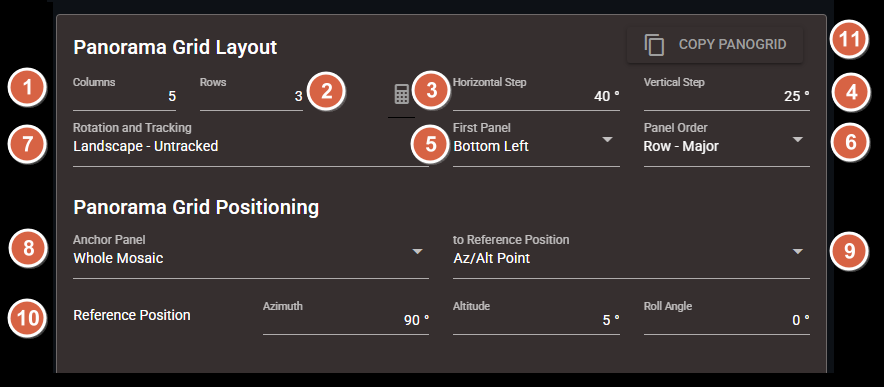
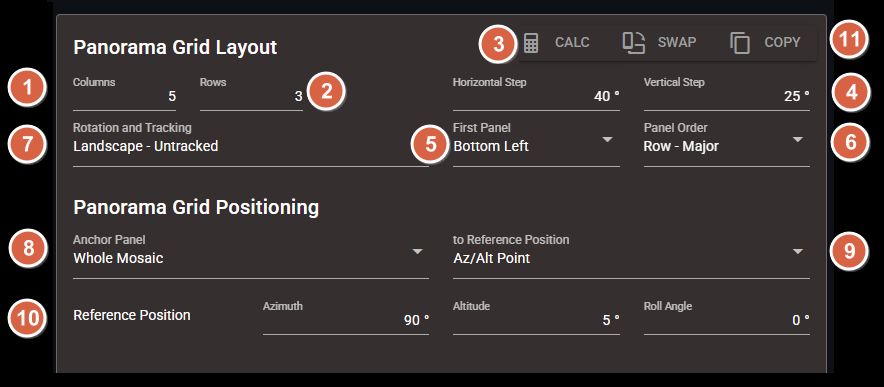
fix(docs): update pano docs and note on restricted browser functions requiring https

Changed region(s): [[0.7025, 0.062, 0.9163, 0.155], [0.5192, 0.062, 0.6719, 0.186], [0.4276, 0.186, 0.5192, 0.2791]]

diff --git a/docs/pilot.md b/docs/pilot.md
@@ -47,7 +47,7 @@ The main menu of the **Alpaca Pilot** application provides centralized access to
 - **④ Connect:**  Initiates or terminates the connection to the Alpaca Driver and Polaris mount. This button reflects current connection status.
 
 - **⑤ Settings:** Opens the configuration panel where you can set observing site latitude/longitude, define the park position, adjust preferences, and enable standard and advanced features.
-
+> Note: Location services are restricted in browsers on mobile phones and the Locate function in Settings will only work over HTTPS. Refer to the instructions below to [enable HTTPS in Alpaca Pilot](#enable-https-in-alpaca-pilot).
 - **⑥ Search Entry:** A text input field for searching catalog entries and targets. Supports shorthand formats and intelligent parsing for quick access to celestial objects.
 
 - **⑦ Search Toggle:** Toggles the visibility of the search entry field. On narrow screens, it also expands the search input area for easier access. When a search term is present, this button acts as a quick-clear control to reset the entry.
@@ -1052,7 +1052,7 @@ Changes made in Alpaca Pilot immediately update the active panorama grid in the 
    * **3 – Sky · Milky Way**: Sidereal tracking is enabled. Panel positions are calculated in Galactic coordinates, with hstep adjusting Galactic Longitude and vstep adjusting Galactic Latitude. The Galactic Position Angle remains constant for all panels and is derived from the anchor's reference roll angle. *Use for mosaics aligned with the milky way spine.*
       * **Galactic longitude (0–360°)** defines the position around the Milky Way's disk. At longitude 0° and latitude 0°, the camera is pointed toward the Galactic Center, near Sagittarius A*.
       * **Galactic Latitude (–90° to +90°)** defines the angular distance above or below the Milky Way's disk. At latitude 0°, the camera is centered on the Galactic plane.
-      * **Galactic Position Angle (-180° to +180°)** defines the camera's rotation about its viewing axis. At 0°, the top of the frame points toward the North Galactic Pole. At ±90°, the top of the frame is aligned with the Milky Way plane. Beware of Benro Polaris roll angle limits.
+      * **Galactic Position Angle (-180° to +180°)** defines the camera's rotation about its viewing axis. At 0°, the top of the frame points toward the North Galactic Pole. At ±90°, the top of the frame is aligned with the Milky Way plane. Beware of Benro Polaris roll angle
 
 
 - **⑧ Anchor Panel `"anchor":`** Specifies which part of the panorama is placed at the reference position. The **Anchor Panel** and **Reference Position** work together to shift the entire panorama grid to your desired orientation:
@@ -1074,8 +1074,11 @@ Changes made in Alpaca Pilot immediately update the active panorama grid in the 
    * **Reference Axis 2 `"r2":`**: Altitude or Declination (decimal degrees)
    * **Reference Axis 3 `"r3":`**: Roll or Position Angle (decimal degrees)
 
+- **&#9322; Swap:** Changes the spacing between panels for either a Landscape or Portrait orientation, by  swaping the `"hstep"` and `"vstep"` values. Landscape orientation will have a larger `"hstep"`, while Portrait orientation will have a larger `"vstep"`. This button only changes the spacing of the panels, you will need to use a lens collar to rotate your camera's sensor to match the orientation. 
 
-- **&#9322; Copy PanoGrid:** Copies the current Panorama Grid settings to the clipboard in JSON format. After defining the Panorama Grid Layout, use this button to paste the settings directly into the `Polaris:PanoGrid` **Device Action Parameters** field within the NINA Advanced Sequencer. See below for an example.
+- **&#9322; Copy:** Copies the current Panorama Grid settings to the clipboard in JSON format. After defining the Panorama Grid Layout, use this button to paste the settings directly into the `Polaris:PanoGrid` **Device Action Parameters** field within the NINA Advanced Sequencer. See below for an example.
+
+> Note: Clipboard access is restricted in browsers and the Copy function will only work over HTTPS. Refer to the instructions below to [enable HTTPS in Alpaca Pilot](#enable-https-in-alpaca-pilot). 
 
 - **Panel Navigation:** The Panel Navigation grid provides a visual representation of the panorama layout and allows you to click any panel number to slew the mount directly to that position. The grid follows the panorama layout convention where the **bottom-left panel represents the lowest Altitude and lowest Azimuth**. As you move **to the right**, Azimuth increases; as you move **upward**, Altitude increases. The numbering and progression reflect the selected First Panel and Panel Order settings, while symbols indicate the next panel in the capture sequence and the anchor panel tied to the reference position.
  

diff --git a/docs/todo.md b/docs/todo.md
@@ -34,8 +34,9 @@
 - [X] PEC - Disable learning of PEC Model while disabled
 - [X] Galactic - Add Galactic Co-ordinate system to Pilot
 - [X] Galactic - Add Sky - Milky Way Panorama for aligning pano grid with Milky Way spine
+- [X] Version - Upgrade to Beta version 2.2
+- [X] HTTPS - Document Location GPS using phone web browser
 - [ ] Galactic - Improve fallback for unreachable roll angles in Galactic panos
-- [ ] HTTPS - Document Location GPS using phone web browser
 - [ ] Flip - Cannot flip to -30 back to +30 at Az 210
 - [ ] Flip - Confirm unwrapping doesnt cause stutter in pid on long slews
 - [ ] Tests - Remove all performance tests from core
@@ -44,7 +45,6 @@
 - [ ] Connection - why does changing IP address allow connection to proceed?
 - [ ] Connection - why does L-Bracket get initialised incorrectly sometimes?
 - [ ] Dependancies - Upgrade dependant libraries on Node and Python
-- [ ] Version - Upgrade to Beta version 2.2
 - [ ] PEC - Calibration pulses to be ignored by PEC (using either PHD2 and CCDciel)
 - [ ] Create video of new features 
     - Install
